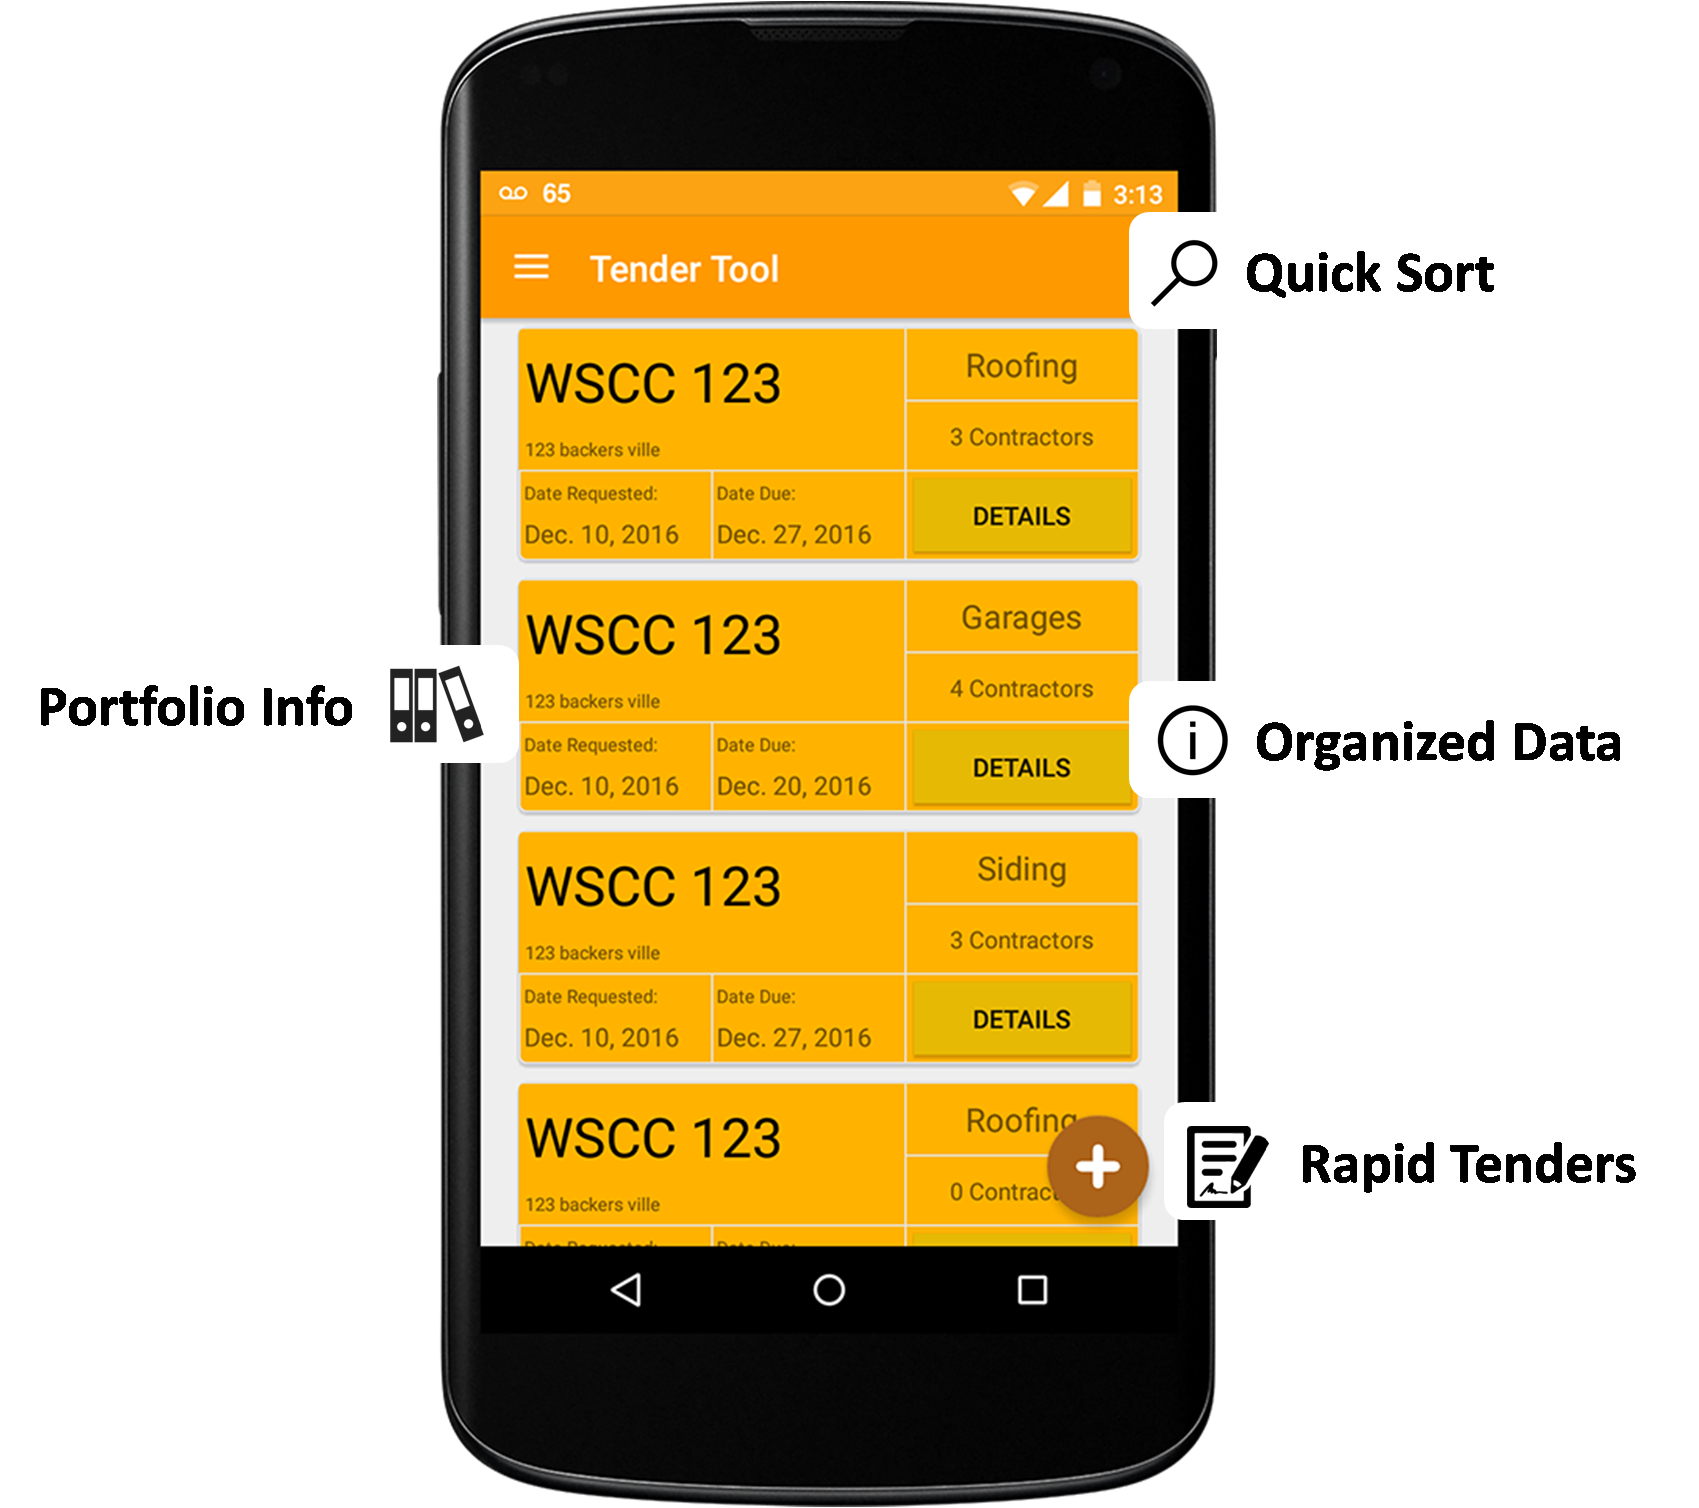
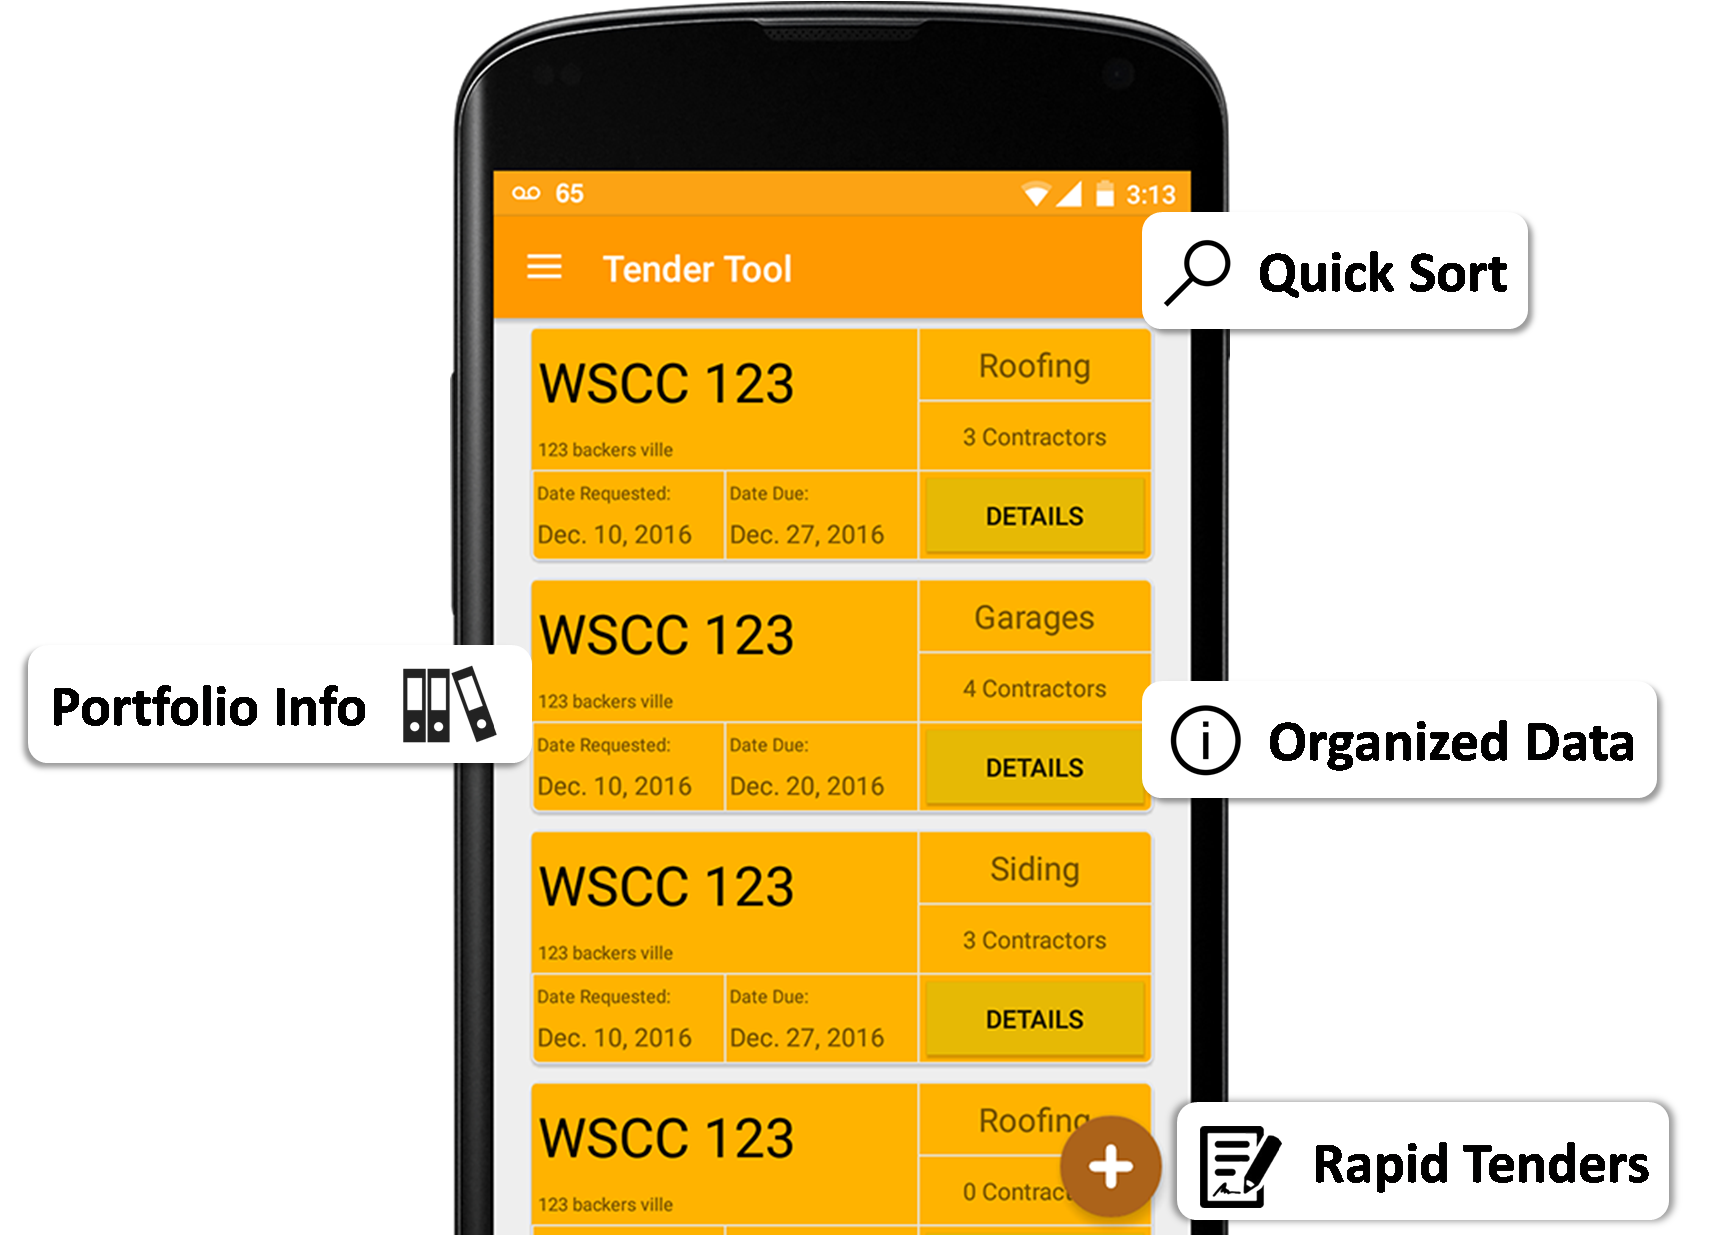
Updated simplified image

Changed region(s): [[0.0, 0.0, 0.9982, 1.0]]

diff --git a/v2/index.html b/v2/index.html
@@ -175,13 +175,9 @@
                         We exist to offer all Property Managers an efficient tool to bridge communication with trusted trades. We simplify this process by connecting managerial duties of obtaining tenders and issuing timely work orders from trades approved by management firms. TenderTool is anutility app for property managers and contractors. Let’s communicate.  Here's how we can help. 
                      </p>
 
-                    <img src="images/content/simplify.png" alt="Tracking your personal finances and creating budgets has never been simpler" title="Pennies app budgets" style="max-width:600px;" class="" />
-                    <img src="images/content/simplify.png" alt="Tracking your personal finances and creating budgets has never been simpler" title="Pennies app budgets" style="max-width:600px;" class="retina" />
-                <br>
-				<br>
-				<br>
-				<br>
-				<br>
+                    <img src="images/content/simplify.png" alt="Tracking your personal finances and creating budgets has never been simpler" title="Pennies app budgets" style="max-width:700px;" class="" />
+                    <img src="images/content/simplify.png" alt="Tracking your personal finances and creating budgets has never been simpler" title="Pennies app budgets" style="max-width:700px;" class="retina" />
+
 				</article>
             </section>
         </div><!-- End of "wrapper-inner" -->
